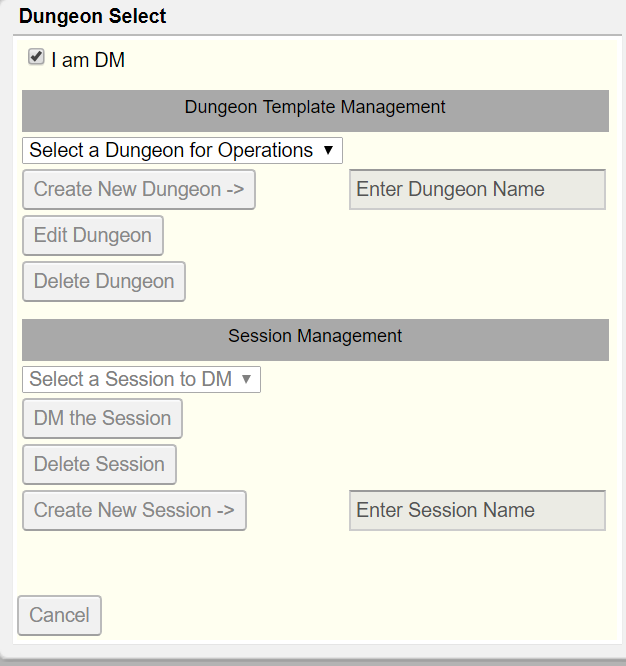
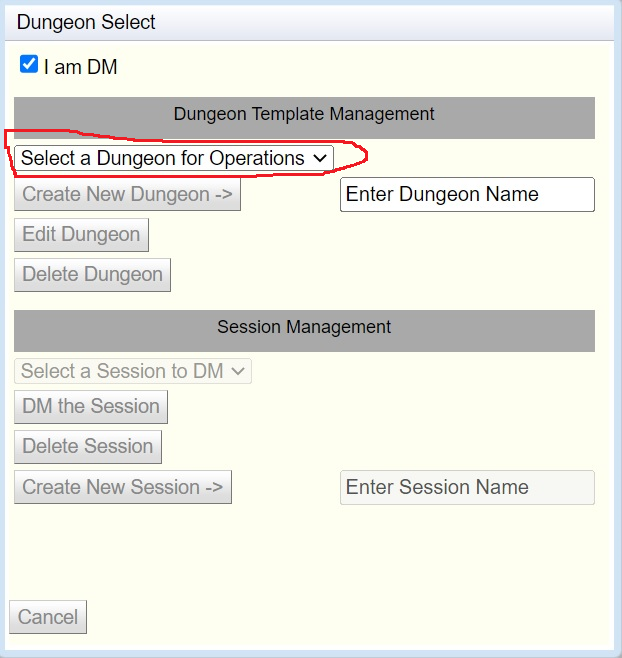
started editing help page

Changed region(s): [[0.0, 0.0, 1.0, 1.0]]

diff --git a/src/main/webapp/help.html b/src/main/webapp/help.html
@@ -15,6 +15,7 @@
 			<li><a href="#CreateNewDungeon">Creating a New Dungeon</a></li>
 			<li><a href="#EditDungeon">Editing a Dungeon</a></li>
 			<ul>
+				<li><a href="#DungeonEditorLayout>">Dungeon Editor Layout</a></li>
 				<li><a href="#CreateDungeonLevel">Create a new Dungeon
 						Level</a></li>
 				<li><a href="#EditDungeonLevel">Editing a dungeon level</a></li>
@@ -40,7 +41,7 @@
 	<h2 id="Overview">Electronic Battle Mat Overview</h2>
 	<p>Electronic Battle mat is a Web Application to help DMs and
 		players have a better experience for running a role playing game. It
-		encompasses three modes of operation.
+		encompasses four modes of operation.
 	<ol>
 		<li>Creating and editing Template dungeons</li>
 		<p>Template dungeons contain all the maps and resources needed for
@@ -79,14 +80,6 @@
 		</li>
 		<p>This opens up all the operations and privileges of a Dungeon
 			Master.</p>
-		<li>Select a Template Dungeon</li>
-		<p>
-			This dungeon will be copied as a starting point for the new dungeon.
-			Typically you would select the &quot;<b>Template Dungeon</b>&quot;.
-			This will also make the text box with the text &quot;<b>Enter
-				Dungeon Name</b>&quot; editable.
-		</p>
-		<img src="help/ManageDungeons2.png">
 		<li>Name the new dungeon</li>
 		<p>
 			In the text box labeled "<b>Enter Dungeon Name</b>&quot; enter the
@@ -95,11 +88,11 @@
 			match an existing name. Once a legal name is entered the &quot;<b>Create
 				New Dungeon</b>&quot; button will be enabled.
 		</p>
-		<img src="help/ManageDungeons6.png">
+		<img src="help/ManageDungeons2.png">
 		<li>Click the &quot;<b>Create New Dungeon</b>&quot; button
 			<p>
 				This will create a new dungeon with the entered name by copying the
-				selected dungeon. It should now be visible in the &quot;<b>Select
+				"Template" dungeon. It should now be visible in the &quot;<b>Select
 					a Dungeon for Operations</b>&quot; list.
 			</p> <img src="help/ManageDungeons7.png">
 		</li>
@@ -126,6 +119,102 @@
 			The ribbon bar will also map to the available operations that the DM
 			can do on the dungeon.</p>
 	</ol>
+	<h3 id="DungeonEditorLayout>">Dungeon Editor Layout</h3>
+	<p>This is how the editor should look when it is first opened up on
+		a new dungeon created from the "Template" dungeon.</p>
+	<img src="help/DungeonEditor.png">
+	<ol>
+		<li>This is the <a href="#RibbonBar">Ribbon Bar area</a>.
+		</li>
+		<li>This is the <a href="#BattleMat">Battle Mat area</a>.
+		</li>
+		<li>This is the <a href="#InformationManagement">Information
+				Management area</a>.
+		</li>
+	</ol>
+	<h3 id="RibbonBar">Ribbon Bar Area</h3>
+	<ol>
+		<li>Selected Pog Area</li>
+		<img src="help/RibbonBar1.png">
+		<p>This will show the picture of the currently selected Pog. You
+			can click and drag in this area to place a copy of the pog onto the
+			map.</p>
+		<li>Level Selection Area</li>
+		<img src="help/RibbonBar2.png">
+		<p>This is where you select which dungeon level you wish to edit.</p>
+		<li>Show Pog Notes Checkbox</li>
+		<img src="help/RibbonBar3.png">
+		<p>By checking this box you will cause a floating dialog window to
+			appear. This window will allow you to view and edit the notes placed
+			on a pog. You can edit both regular notes which are viewable by the
+			players or DM notes only viewable by the DM.</p>
+		<li>Show Selected Pog Checkbox</li>
+		<img src="help/RibbonBar4.png">
+		<p>By checking this box you will cause a floating dialog window to
+			appear. This window will allow you to view the picture of the
+			selected pog. You can resize the window by dragging in the lower
+			right corner allowing you to get a better view.</p>
+		<li>Show Help</li>
+		<img src="help/RibbonBar5.png">
+		<p>By clicking here you will get this help page.</p>
+	</ol>
+	<h3 id="BattleMat">Battle Mat Area</h3>
+	<p>
+		This area is where the map and all the objects placed on it appear.
+		When you are DMing a session this will also display the areas that
+		have <b>Fog of War (FOW)</b> on them. It will be transparent to the DM
+		but will be solid black to the players preventing them from seeing
+		stuff. Following are a few things you can do with and to this area.
+	</p>
+	<ol>
+		<li>Pan the Map</li>
+		<p>By clicking on the map and holding the mouse button down you
+			can change the position of the map.</p>
+		<li>Zoom the Map</li>
+		<p>By spinning the center mouse button you can zoom in and out of
+			the map.</p>
+		<li>Move Pogs around</li>
+		<p>You can click on a pog and drag it to a new spot.</p>
+		<li>Add new pogs to map</li>
+		<p>By dragging an dropping a picture of a pog from the ribbon bar
+			you will create a new pog on the map. This is a copy of the pog and
+			not the original. So if you want two more of a monster already on the
+			map. You just need to select it so it shows in the ribbon bar then
+			drag and drop twice from the ribbon bar.</p>
+		<li>Change properties of a pog</li>
+		<p>By right clicking on a pog you can change some properties. Like
+			make it visible or invisible to players or give it a number to help
+			players more easily identify it. You can even delete it from the map.</p>
+	</ol>
+	<h3 id="InformationManagement">Information Management area</h3>
+	<p>This area allows the DM to edit and create all kinds of
+		information related to the dungeon. It is broken into different tabs
+		to help separate functionality.</p>
+	<ol>
+		<li>Art Assets</li>
+		<p>This area allows you to manage the artwork needed for you dungeon</p>
+		<li>Dungeon Editor</li>
+		<p>This area allows you to edit and add dungeon levels</p>
+		<li>Pog Editor</li>
+		<p>This area allows you to do things like edit, create and delete pogs.</p>
+	</ol>
+
+
+
+
+
+
+
+
+
+
+
+
+
+
+
+
+
 	<h3 id="CreateDungeonLevel">Create a new Dungeon Level</h3>
 	<ol>
 		<li>From the ribbon bar click the &quot;&quot;<b>Level
@@ -276,15 +365,11 @@
 	<p>To create a new session do the following steps.</p>
 	<ol>
 		<li>Get into the Manage Dungeons dialog.</li>
-		<p>
-			You can do this be either revisiting the Electronic Battle Mat screen
-			and log back in or if you already in as dungeon master just click the
-			<b>Manage Dungeons</b> Button on the ribbon bar
-		</p>
-		<img src="help/RibbonBar11.png">
+		<p>You can do this by revisiting the Electronic Battle Mat screen
+			and log back in.</p>
 		<li>Check the <b>I am DM</b> check box
 		<li>Select the template dungeon you wish to make a session for</li>
-		<img src="help/ManageDungeons2.png">
+		<img src="help/ManageDungeons.png">
 		<li>Enter a new Session name</li>
 		<p>This name must be unique from other sessions in this dungeon
 			and it must be at least 4 characters long and can't start with "Enter
